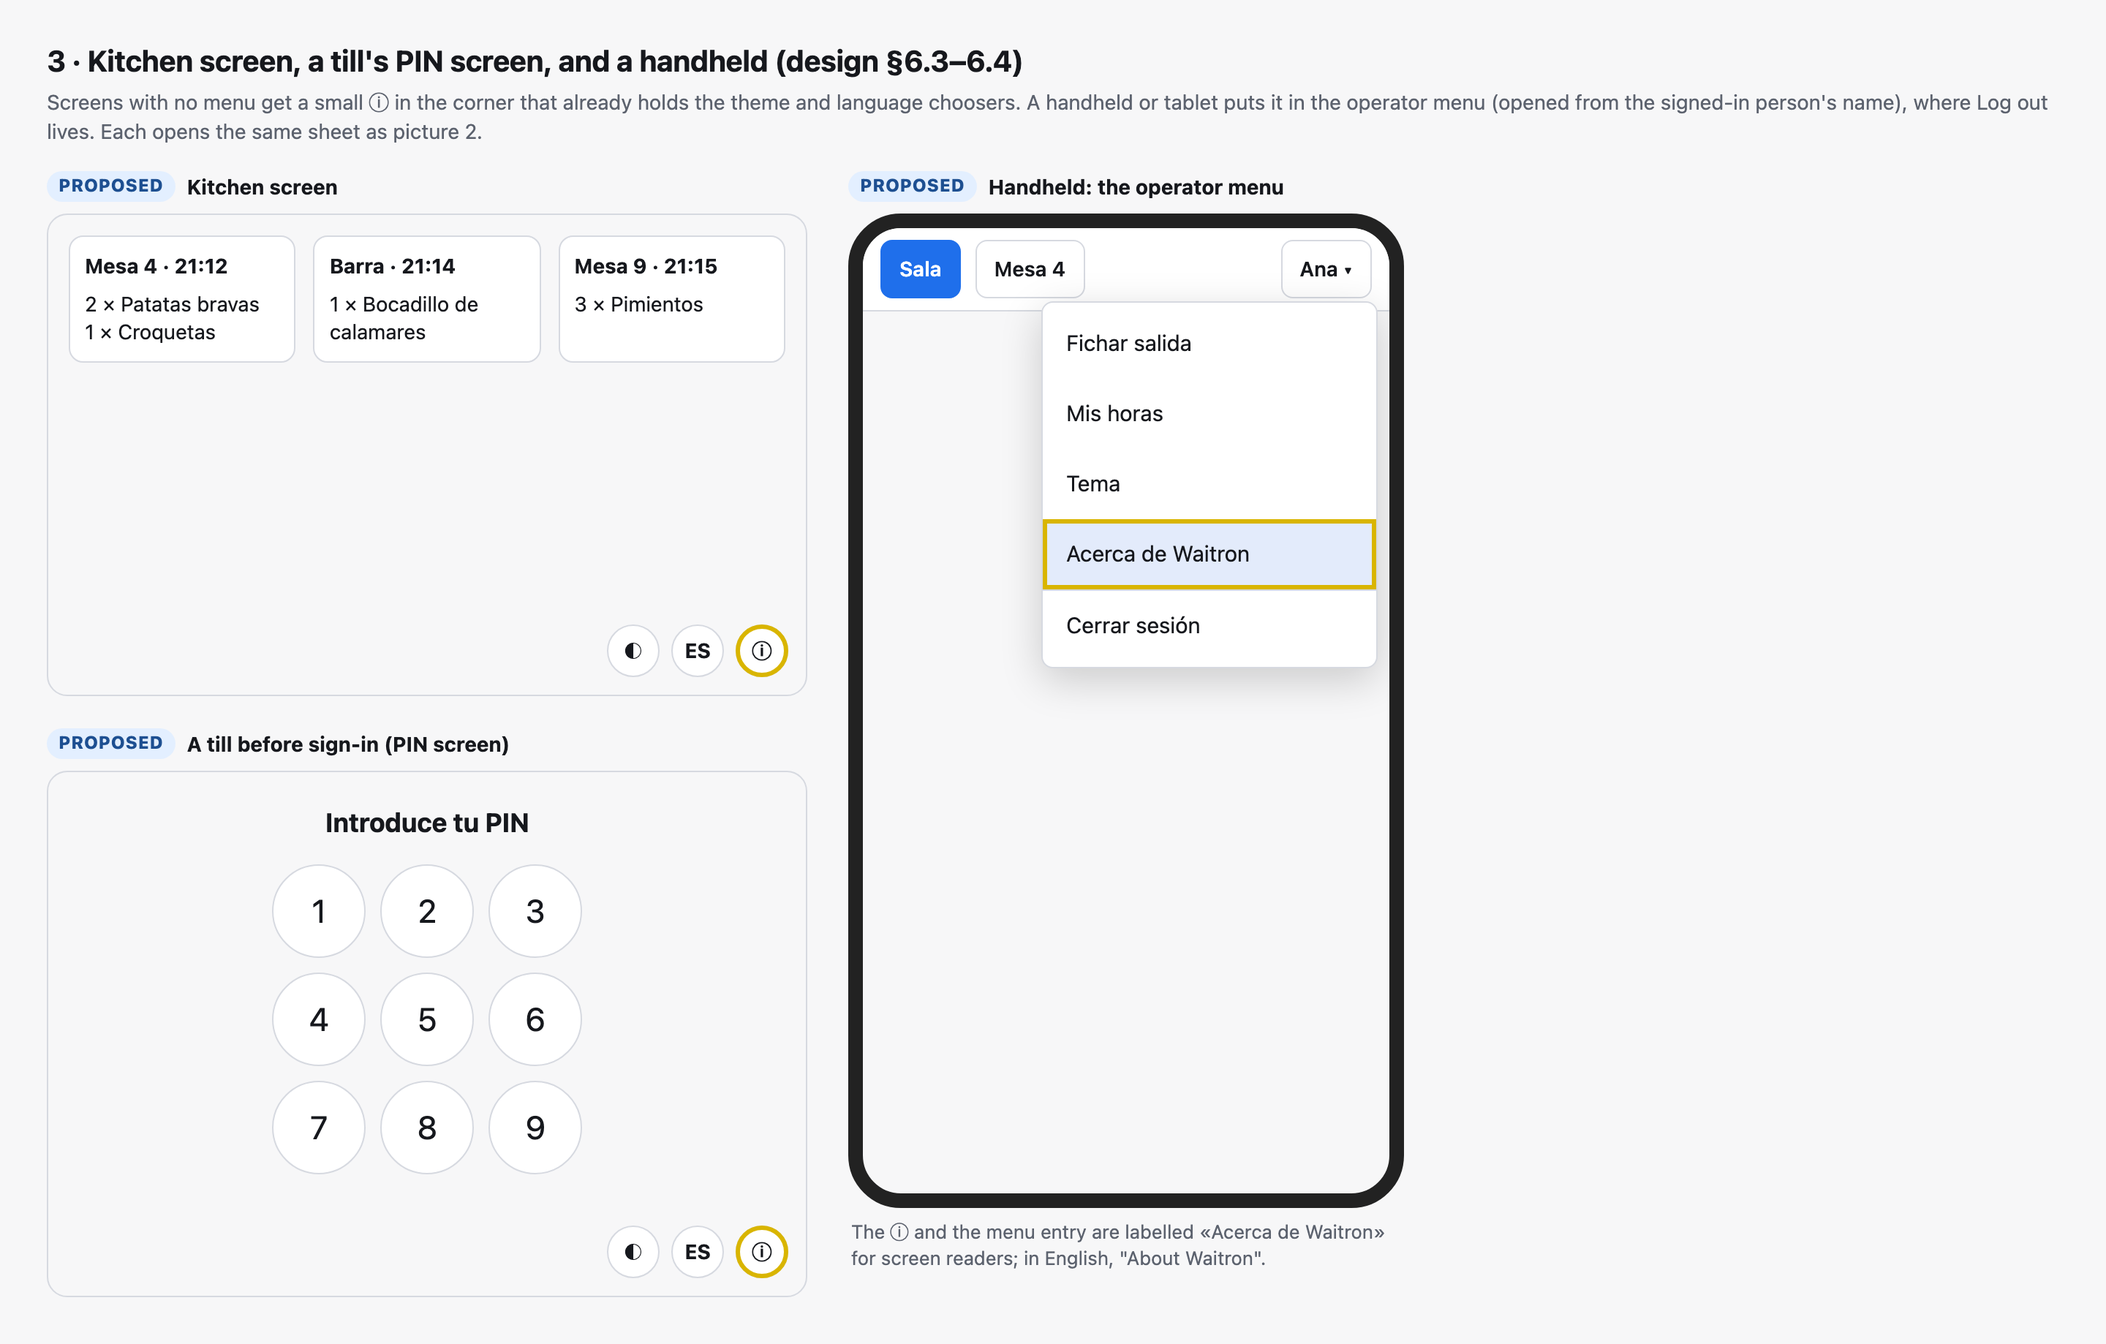
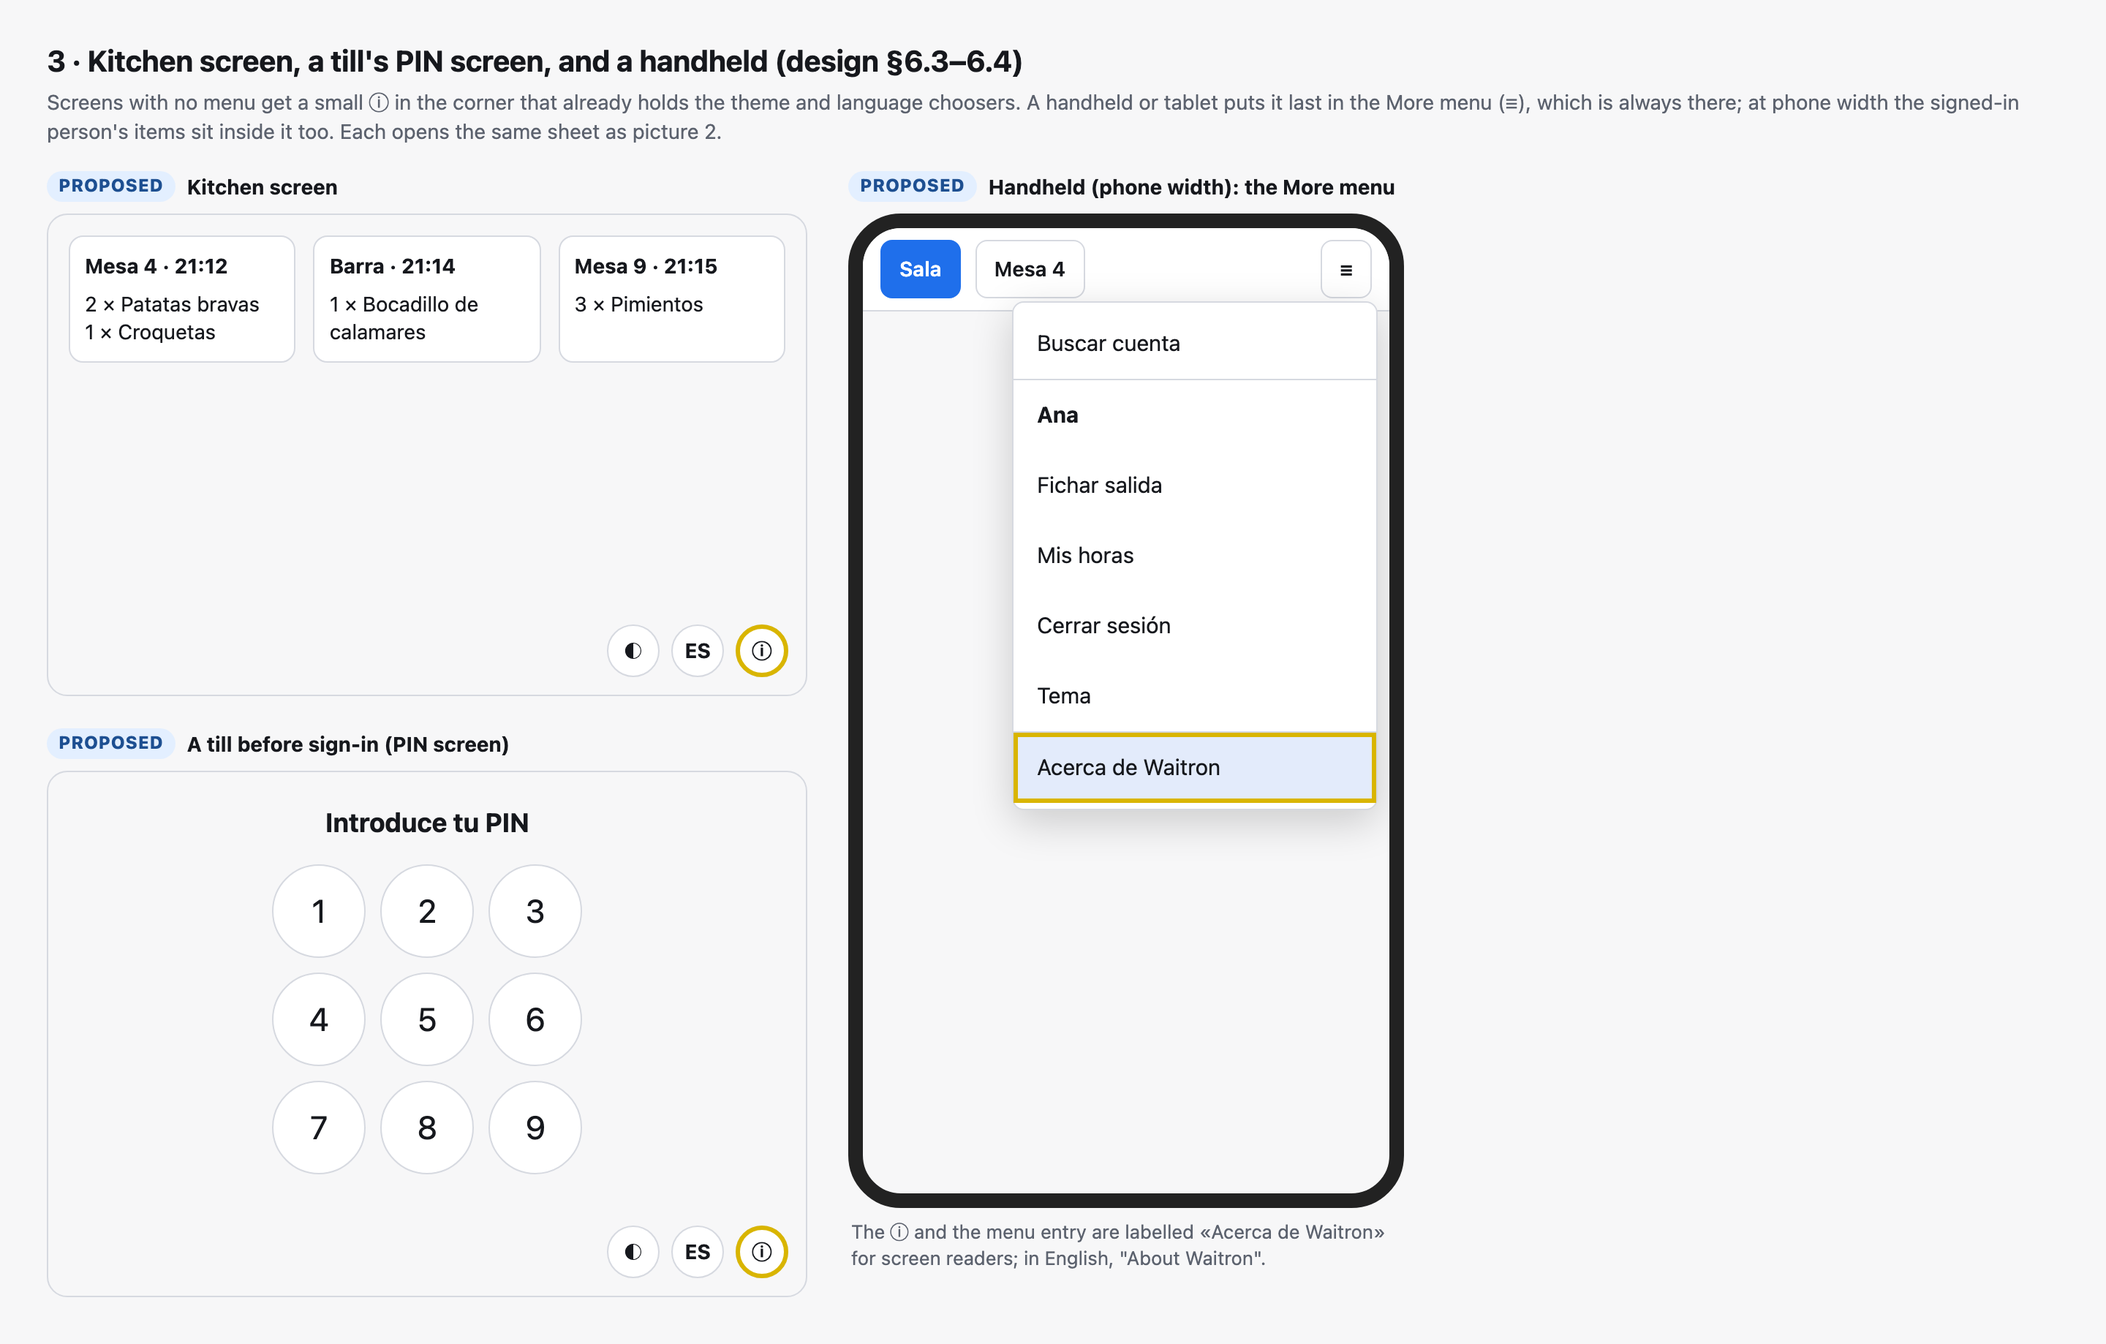
docs: A940 design — fold in the second check
Drops the till close from the functions list (no screen records one), puts About Waitron last in
the More menu every handheld and tablet always shows, states the three deliberate departures from
AEAT's example headings, and tells the owner that a later switch from person to company most
likely means a new installation and chain at each venue then running.

diff --git a/docs/superpowers/specs/2026-10-21-a940-declaracion-responsable-design.md b/docs/superpowers/specs/2026-10-21-a940-declaracion-responsable-design.md
@@ -97,7 +97,8 @@ detailed explanation of how the system meets the Orden, anything else.
 
 **Components.** AEAT's FAQ on software built from other code: the producer that writes or
 integrates it «debe realizar la declaración responsable, incorporar los datos obligatorios e
-indicar qué componentes utiliza» and «se hará responsable del funcionamiento del mismo». A
+indicar qué componentes utiliza» and «En el caso de que utilice código abierto, se hará responsable del funcionamiento del
+mismo». A
 component from the same producer with its own release cycle, usable by other systems, needs its
 own declaration; the repository recorded that reading on 2026-07-27
 ([verifactu-findings.md](../../compliance/verifactu-findings.md), the table of cases (a)–(c)).
@@ -186,11 +187,14 @@ mode and in trading mode. The till has a sheet that shows a box page over the sc
 ## 4. The declaration's text
 
 Drafted from AEAT's worked example (V0.5.1, the only one AEAT publishes; its one example is
-software sold for Veri\*Factu-only use by a Spanish company). **The headings are the example's,
-word for word**: the example is AEAT's own rendering of art. 15.1's items as headings («esta
-declaración responsable», «el apartado a)»), and the Orden's text describes each item rather than
-giving a heading to copy. The explanatory sentences the Orden adds to items a), b) and l) are
-not headings and are left out, as the example leaves them out.
+software sold for Veri\*Factu-only use by a Spanish company). **The item headings are the
+example's, word for word**: the example is AEAT's own rendering of art. 15.1's items as headings
+(«esta declaración responsable», «el apartado a)»), while the Orden's text describes each item
+rather than giving a heading to copy, and adds explanatory sentences to several items that are
+not headings. Three departures, each deliberate: the title is the Orden's exact wording (art. 15.1
+fixes it); the person-producer wording of the example's footnote i, which the footnote applies to
+items h)–l), is also applied to the annex headings, by our choice; and the annex has no item 2.d)
+(the example has none either).
 
 Values marked ‹…› are filled in later: the producer's facts by the owner (question 1, §11), and
 the version, the library version, the functions list and the date by the release step (§5). Where
@@ -224,14 +228,17 @@ draft below is written for a person, because that is the producer today
 >   Agencia Tributaria.
 > - La biblioteca @waitron/verifactu, versión ‹x.y.z›, del mismo productor y con su propia
 >   declaración responsable. El servidor la usa en cada registro de facturación para formar el
->   registro, calcular su huella y preparar su envío.
+>   registro, calcular su huella, generar el código QR de la factura y remitirlo a la Agencia
+>   Tributaria.
 > - Las aplicaciones de caja, terminal de mano, pantalla de cocina y panel de gestión, que el
 >   servidor sirve a un navegador web. Los terminales no generan registros de facturación.
 > - El agente de impresión, que envía tickets y facturas a las impresoras.
 > - Componentes de terceros de los que el productor se hace responsable: Node.js ‹versión›, con
->   su motor de base de datos SQLite, que guarda los registros y bloquea su modificación;
+>   su motor de base de datos SQLite, en el que se guardan los datos y los registros;
 >   Litestream ‹versión›, que mantiene la copia de seguridad cuando el usuario la configura; y el
->   sistema operativo Linux con Docker sobre el que se instala.
+>   sistema operativo Linux con Docker sobre el que se instala. La lista completa de componentes
+>   de terceros de esta versión, con sus licencias, se encuentra en el propio sistema, en la
+>   carpeta /app/third-party/.
 >
 > Servicios opcionales del mismo productor que esta versión puede usar: ‹ninguno, o la lista que
 > compruebe el paso de publicación›.
@@ -242,7 +249,7 @@ draft below is written for a person, because that is the producer today
 > Funcionalidades principales: ‹la lista que compruebe el paso de publicación; en la rama
 > principal el 21 de octubre de 2026: toma de pedidos por mesa o en barra, cobro en efectivo y con
 > tarjeta, expedición de facturas simplificadas, facturas rectificativas, consulta de las facturas
-> emitidas, cierre de caja e informes de ventas›.
+> emitidas e informes de ventas›.
 >
 > Cada instalación lleva la facturación de un único obligado tributario.
 >
@@ -297,20 +304,16 @@ draft below is written for a person, because that is the producer today
 > refiere esta declaración responsable:**
 > - Histórico de declaraciones responsables de las versiones de este producto:
 >   https://github.com/clintongormley/waitron/releases
->
-> **2.d) Otra información:** La lista completa de componentes de terceros que incluye esta
-> versión, con sus licencias, se encuentra en el propio sistema, en la carpeta /app/third-party/.
 
 **In English, briefly.** a) Waitron. b) W1, the code the records already carry. c) The release's
 version. d) What it is (a restaurant point of sale on the venue's own server, reached by the
 venue's tills over the local network), its own parts, the third-party parts it takes
 responsibility for, any optional services of ours it uses, no hardware of its own, its main
-functions, and one taxpayer per installation. e) Yes, only Veri\*Factu. f) No, one taxpayer.
+functions, and one taxpayer per installation; it points to the full third-party list. e) Yes, only Veri\*Factu. f) No, one taxpayer.
 g) Signs nothing itself, because a Veri\*Factu-only system's records count as signed when sent
 with a qualified certificate — AEAT's example's words, unchanged. h)–j) Who the producer is and
 where to write to them. k) The fixed compliance statement. l) Date and place of signing. Annex: an
-email address, the archive of every version's declaration, and where the full third-party list
-lives.
+email address and the archive of every version's declaration.
 
 **Choices made in the draft, each for the owner's approval in question 3:**
 
@@ -326,12 +329,20 @@ lives.
   2026-10-21: simplified invoices (F2) are issued; corrective invoices are reached through
   `apps/server/src/cancel-credit.ts`; every full-invoice request is refused
   (`apps/server/src/till-sale.ts:516`, `apps/server/src/working-order.ts:4180-4191`); and no
-  route records a cancellation or a substitute invoice (`docs/backlog.md`, fiscal area: \"No till screen or
+  route records a cancellation or a substitute invoice (`docs/backlog.md`, fiscal area: "No till screen or
   server route calls `recordVoid` yet", and "no route calls `recordSubstitution`"). So full and
-  substitute invoices and cancellations are not listed. A release that turns one on lists it.
-- **The third-party parts that do legal work are named:** Node.js and its SQLite engine (the
-  triggers that refuse a change to a filed record, CLAUDE.md §5) and Litestream (the backup
-  stream). The full list stays in `/app/third-party/`, which already ships with every image.
+  substitute invoices and cancellations are not listed. A release that turns one on lists it. A
+  function is listed only when a screen can do it: the end-of-day till close is left out because
+  no route records one (`recordDailyClose` is called only by a demo script,
+  `apps/server/scripts/daily-close-z-demo.ts`); the read-only daily report is part of «informes de
+  ventas».
+- **Item d) describes an installation on the venue's own machine.** The README also mentions a
+  hosted service (`README.md:6`); a hosted Waitron would be described in the declaration of the
+  version that offers it.
+- **The third-party parts that do legal work are named:** Node.js and its SQLite engine, where the
+  records live, and Litestream, which copies them to the backup. The guarantee that a filed record
+  is not changed comes from Waitron's own triggers (CLAUDE.md §5), so the draft does not credit the
+  engine with it. The full list stays in `/app/third-party/`, which already ships with every image.
 - **No hardware.** AEAT's FAQ: generic hardware is not certified, only hardware sold as part of
   «un "todo"» or hardware that itself meets a requirement. If Waitron later sells a box as part
   of the product, item c) must list the box's version too, software first («Se puede empezar por
@@ -462,16 +473,17 @@ instead of its fixed guide title (`apps/till/src/widgets/guide-sheet.ts:89`). (P
 
 ### 6.3 Handheld and tablet
 
-On these the More menu appears only when bar items overflow
-(`apps/till/src/widgets/till-shell.ts:493-503`, `:1008`), and Log out lives in the operator menu,
-opened from the signed-in person's name (`till-shell.ts:735-842`). So **About Waitron** goes in the
-operator menu, last before Log out, and opens the same sheet. (Picture 3.)
+The More menu (≡) is always drawn on these, because Find bill always lives in it
+(`apps/till/src/till-app.ts:17232-17240`, `apps/till/src/widgets/till-shell.ts:501`). On a tablet
+or wide handheld Log out sits in the operator menu, opened from the signed-in person's name; at
+phone width the operator's items, Log out included, are laid out inside More
+(`till-shell.ts:495`, `:869`). So **About Waitron** goes in More, as its last entry, and is found in
+the same place at every width. It opens the same sheet. (Picture 3.)
 
 ### 6.4 Kitchen screen, and a till before sign-in
 
-A kitchen screen shows no menu, only a corner holding the theme and language choosers, and draws
-that corner only when a language list is wired in (`till-shell.ts:990-993`). The corner gains a
-small **ⓘ** button and is drawn always. The lock (PIN) and pairing screens are drawn outside the
+A kitchen screen shows no menu, only a corner holding the theme and language choosers
+(`till-shell.ts:990-993`). The corner gains a small **ⓘ** button. The lock (PIN) and pairing screens are drawn outside the
 till shell (`apps/till/src/till-app.ts:18226`, `:18371`), so they get their own copy of the sheet
 for their ⓘ. A kitchen screen cannot invoice, but the queue item asks for every terminal, and a PIN
 screen is where a till sits most of the day. (Picture 3.)
@@ -541,8 +553,8 @@ migration (slice 5).
   tags for it (a shallow checkout has none; the guard fails, not passes, when a released version's
   tag is missing).
 - **The headings.** A test reads the title and every item heading from a rendered declaration and
-  compares them with AEAT's worked example V0.5.1, typed once into the test from the provenance
-  source. Weaker than its name: it checks headings, not the values beside them.
+  compares them with a fixed list typed once into the test: AEAT's worked example V0.5.1's
+  headings with §4's three departures. Weaker than its name: it checks headings, not the values beside them.
 - **Production refuses an unreleased build** (§5.1), with a refusing case and the case that must
   still start: a production box on a release.
 - **Cancellations keep the taxpayer's name** (§3, fact 2): a case that records a cancellation
@@ -582,13 +594,18 @@ One at a time, each with a worked example; the full text is in the mock-ups fold
 
 1. **Who is the producer on the first declaration, and what tax number and address does it
    publish?** It goes on every box and on the public GitHub page, and the name and tax number go
-   into every invoice record AEAT receives. Recommended: you personally, now; a company's
-   declaration comes with the first release after the company exists — and at that release every
-   new record names the company instead, part-way through a running chain, which the asesor
-   should confirm is fine.
+   into every invoice record AEAT receives. AEAT's developer FAQ counts the producer's NIF as part
+   of the system's identity, and says a change in that identity makes it a different system
+   (`docs/compliance/verifactu-faq-notes.md` §1–2, FAQ §4 pp. 9–10). So switching to a company
+   later most likely means a new installation number and a new chain at every venue running then.
+   Recommended: you personally, now, because until the company exists the only venue is your own
+   deli, and a new installation there is a path the box already has (re-registering a filing node
+   starts a new chain, CLAUDE.md §5); the asesor confirms what
+   the switch costs. The alternative is to form the company before the first release.
 2. **The two yes/no answers:** "only Veri\*Factu" = S and "several taxpayers" = N. Recommended:
    as drafted, and ask the asesor to confirm both in the next batch, including whether the UK's
-   no-filing mode in the same build changes "only Veri\*Factu".
+   no-filing mode in the same build changes "only Veri\*Factu" (the setup wizard does not offer
+   the UK yet: `availableForVenueSetup: false`, `packages/country-gb/src/united-kingdom.ts:13`).
 3. **The wording.** Approve §4's text, or change it. Recommended: approve as drafted, with the
    facts from question 1 filled in.
 4. **Production runs releases only.** Recommended: a production box refuses to start on a build
@@ -611,6 +628,7 @@ One at a time, each with a worked example; the full text is in the mock-ups fold
 | AEAT FAQ, «Certificación de los sistemas informáticos: declaración responsable», labelled «Actualizadas a 21 de octubre de 2026» | https://sede.agenciatributaria.gob.es/Sede/iva/sistemas-informaticos-facturacion-verifactu/preguntas-frecuentes/certificacion-sistemas-informaticos-declaracion-responsable.html | Every version; no signature; inside and outside; keep all; item e); hardware; components; the two-character code |
 | AEAT FAQ, general (sanction) | https://sede.agenciatributaria.gob.es/Sede/iva/sistemas-informaticos-facturacion-verifactu/preguntas-frecuentes.html | €1,000 per system without a declaration |
 | Orden HAC/1177/2024, art. 15 and annex block 2.6 (consolidated text, last updated 28/10/2024; the annex is published as images and was read by eye) | https://www.boe.es/buscar/act.php?id=BOE-A-2024-22138 | Title, items a)–l), annex 2.a)–d), where it must be, the records' twin fields |
+| AEAT developer FAQ §4, as indexed in the repository | `docs/compliance/verifactu-faq-notes.md` §1–2 | The producer's NIF as part of the system's identity (question 1) |
 | Real Decreto 1007/2023, art. 13 (consolidated text, last updated 03/12/2025) | https://www.boe.es/buscar/act.php?id=BOE-A-2023-24840 | Who, every version, keep them all |
 
 The raw quotes, with every heading of the worked example verbatim, were gathered on 2026-10-21

diff --git a/docs/backlog.md b/docs/backlog.md
@@ -149,9 +149,11 @@ _Formerly A1 (with A1a–A1e, A231, A231d, A275 and W41s), and the old Track C's
   The producer's statement that a version meets the Veri\*Factu rules, one per release, readable
   on every terminal and before installation (compliance plan Step 8). The
   [design](superpowers/specs/2026-10-21-a940-declaracion-responsable-design.md) drafts the text
-  from AEAT's worked example, makes `pnpm release` write and freeze each version's copy, adds
-  About Waitron to the dashboard, the till's More menu and an ⓘ corner, serves it at
-  `/legal/declaration` before setup, and attaches it to each GitHub Release. It found
+  from AEAT's worked example, makes `pnpm release prepare` land each version's copy in a pull
+  request and `pnpm release tag` tag it, adds About Waitron to the dashboard, the till's More menu,
+  an ⓘ corner and the setup wizard, serves it at `/legal/declaration` before setup, on the
+  plain-HTTP page and on the recovery page, attaches it to each GitHub Release, and gives the
+  `@waitron/verifactu` library its own declaration. It found
   two defects in what every record tells AEAT, fixed first in a fiscal slice the owner lands:
   `Version` is always `0.0.0`, and the `SistemaInformatico` producer fields carry the taxpayer's
   name and NIF (`packages/fiscal-verifactu/src/backend.ts:641-653`). Four questions in §11. No

diff --git a/docs/backlog/mockups/a940-declaracion-responsable/README.md b/docs/backlog/mockups/a940-declaracion-responsable/README.md
@@ -6,7 +6,7 @@ Nothing here is built.
 
 1. `1-dashboard.png` — the account menu's «Acerca de Waitron», the sign-in screen's link, and the About page (§6.1).
 2. `2-counter-till.png` — the counter till's More menu and the sheet it opens (§6.2).
-3. `3-kitchen-lock-handheld.png` — the ⓘ corner on a kitchen screen and a PIN screen; a handheld's operator menu (§6.3–6.4).
+3. `3-kitchen-lock-handheld.png` — the ⓘ corner on a kitchen screen and a PIN screen; a handheld's More menu at phone width (§6.3–6.4).
 4. `4-outside-the-app.png` — the link on the box's first page, the page before setup, and a release's files on GitHub (§7).
 
 `question.txt` holds the four owner questions, asked one at a time.
